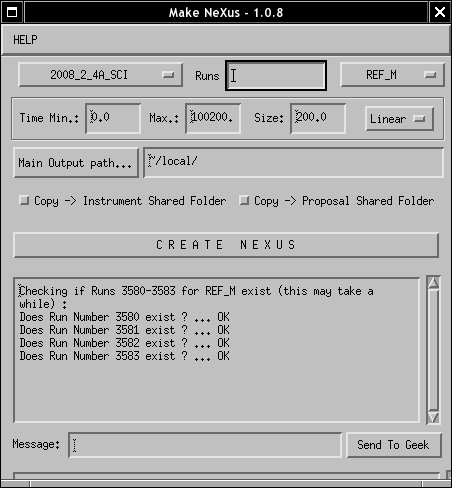
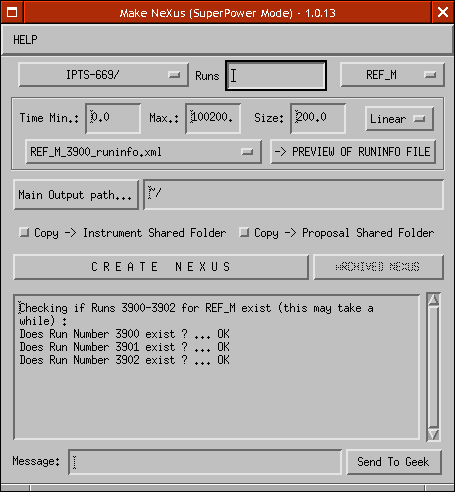
Updated documentation. This refs #967

Changed region(s): [[0.031, 0.4611, 1.0, 0.9836], [0.0, 0.0, 1.0, 0.4303]]

diff --git a/branches/MakeNeXus/1.0/makenexusHELP/stepBYstep.html b/branches/MakeNeXus/1.0/makenexusHELP/stepBYstep.html
@@ -32,8 +32,10 @@ display the result of the search in the status window.<br>
 The <i>time offset</i>, the <i>maximum time</i>, the <i>bin widths</i> and 
 the <i> type of bining</i> parameters of the first file found are display and 
 will be used for all the runs selected. These default parameters have been 
-defined on the DAS.<br>
+defined on the DAS.<br>  
 <center><img src='sbs4.png'><br><br></center>
+You can also visualize the runinfo file coming from the DAS by selecting the file of interest in the droplist and by clicking <font color="red">PREVIEW</font>.<br>
+  <center><img src='preview.png'><br><br></center>
   </li>
   <li><b>Set the output folders</b> Modify the default output folder if 
 necessary and and select <font color="red">Copy -> Instrument Shared 
